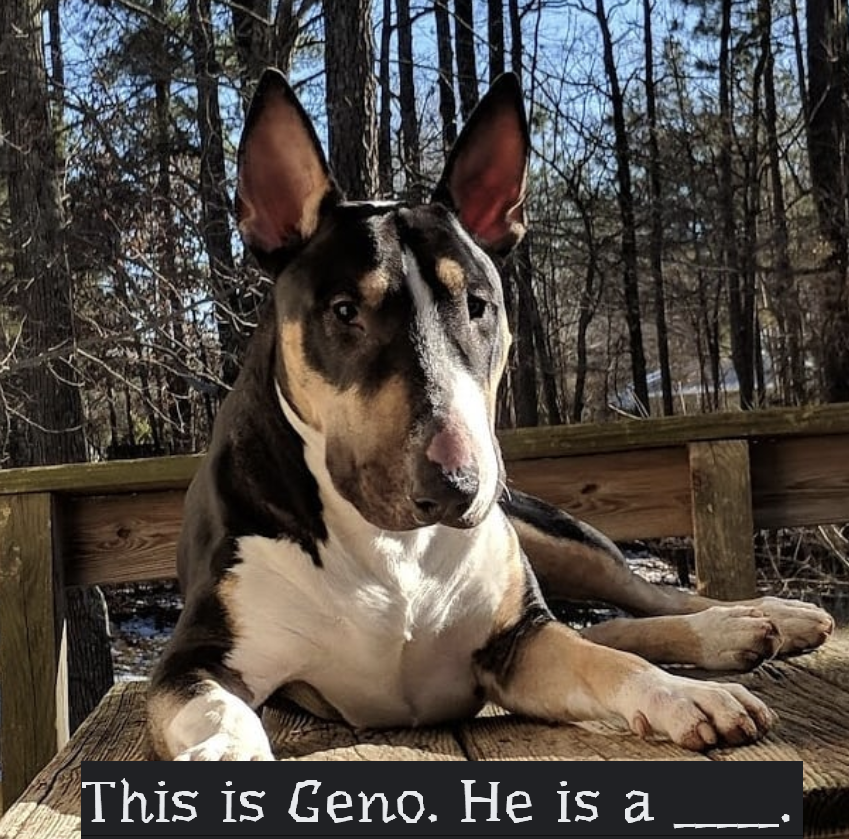
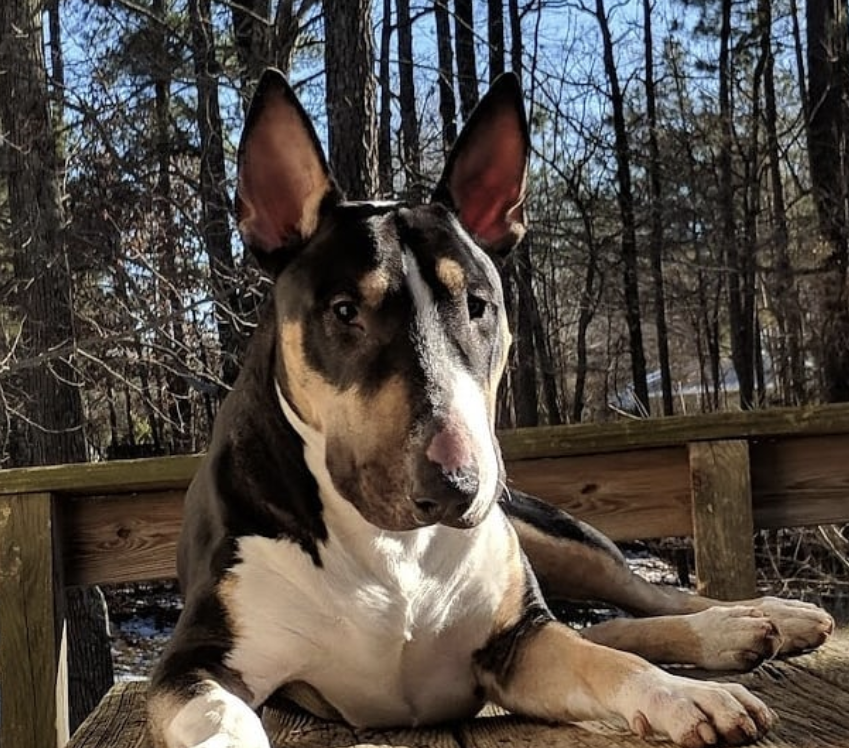
added change in questions and my pup

diff --git a/assets/script.js b/assets/script.js
@@ -45,21 +45,21 @@ var questions = [
         question: "String values must be enclosed within _______",
         answer: "button3",
         options: [
-            "Commas",
-            "Curly brackets",
             "Quotes",
+            "Curly brackets",
+            "Commas",
             "Parenthesis",
         ]
     },
     {
         numb: 5,
-        question: "A very useful tool used during development and debugging for printing content to the debugger is:",
-        answer: "button2",
+        question: "What is better, Cats or Dogs? ",
+        answer: "button0",
         options: [
-            "JavaScript",
-            "Terminal/bash",
-            "For loops",
-            "Console.log",
+            "Dogs",
+            "Dogs",
+            "Dogs",
+            "Dogs",
         ]
     },
     
@@ -109,7 +109,7 @@ var buttons3EL = document.querySelector("#button3");
 
 buttons0EL.addEventListener("click", function(event) {
     count++; 
-    if (count < 5) {
+    if (count < 6) {
         checkAnswer(event.target.id)
         showQuestions(count);
     } else {
@@ -160,9 +160,7 @@ function showQuestions(index){
     document.querySelector("#button1").textContent = questions[index].options[1]
     document.querySelector("#button2").textContent = questions[index].options[2]
     document.querySelector("#button3").textContent = questions[index].options[3]
-    if (count === questions[index].numb) {
-        endQuiz()
-    }
+    
 }
 
 
@@ -175,7 +173,7 @@ function checkAnswer(id) {
         setTimeout(() => {  document.getElementById('right').style.display = "none"; }, 1000);
        
     } else {
-        secondsLeft = secondsLeft - 10;
+        secondsLeft = secondsLeft - 15;
     
             document.getElementById('wrong').style.display = "block";
             

diff --git a/index.html b/index.html
@@ -78,6 +78,7 @@
                 <p2 class="info2">Enter your name: <input type="text" id="name" name="name" required
                     minlength="4" maxlength="8" size="10"> <button id="startButton" onclick="hideElem">Submit</button>
                 </div></p2>
+                <img id="picgeno" src="/Coding-quiz-challenge/assets/images/Geno.PNG">
             </div>
         </div>
 

diff --git a/assets/style.css b/assets/style.css
@@ -144,3 +144,9 @@ body {
   
     
 }
+
+#picgeno {
+    padding-top: 40px;
+    display:block;
+    margin: auto;
+}
